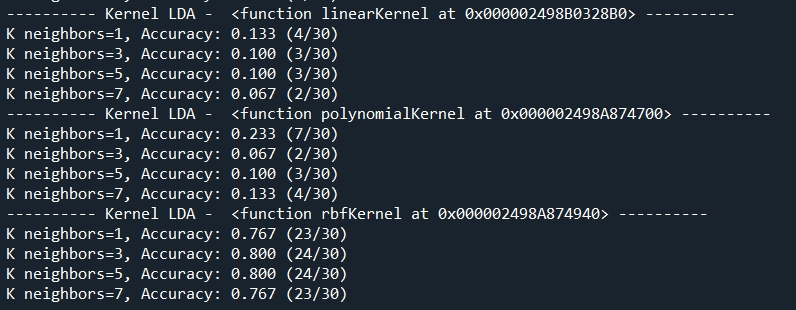
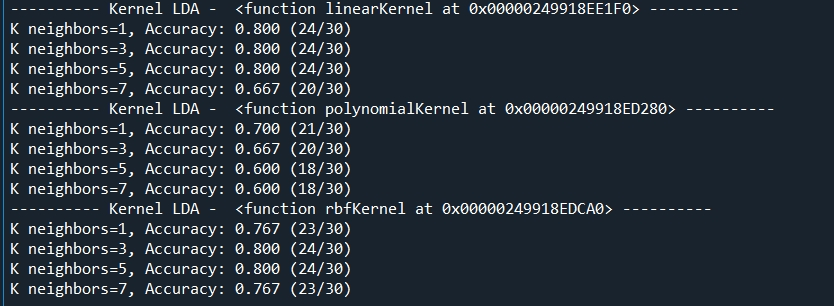
fixed the kernel PCA and LDA

Changed region(s): [[0.0, 0.0, 0.9648, 0.9706]]

diff --git a/KernelEigenfaces.py b/KernelEigenfaces.py
@@ -118,10 +118,6 @@ def rbfKernel(X, Y, gamma=1e-8):
 def KernelPCA(train, K, method):
     # compute kernel
     kernel = method(train.T, train.T)
-    one = np.full((kernel.shape[0], kernel.shape[0]), 1 / train.shape[1])
-    # make the data to be centered already
-    #centeredKernel = kernel - one @ kernel - kernel @ one + one @ kernel @ one
-    #eigenValue, eigenVector = np.linalg.eigh(centeredKernel)
     eigenValue, eigenVector = np.linalg.eigh(kernel)
     
     index = np.argsort(eigenValue)[::-1]
@@ -234,6 +230,7 @@ if __name__ == '__main__':
         # Kernel PCA and LDA
         kernel = [linearKernel, polynomialKernel, rbfKernel]
         
+        # Before doing kernel -> make the data centered!!!
         avgFace = np.mean(train, axis=1)
         train = (train.T - avgFace).T
         test = test - avgFace
